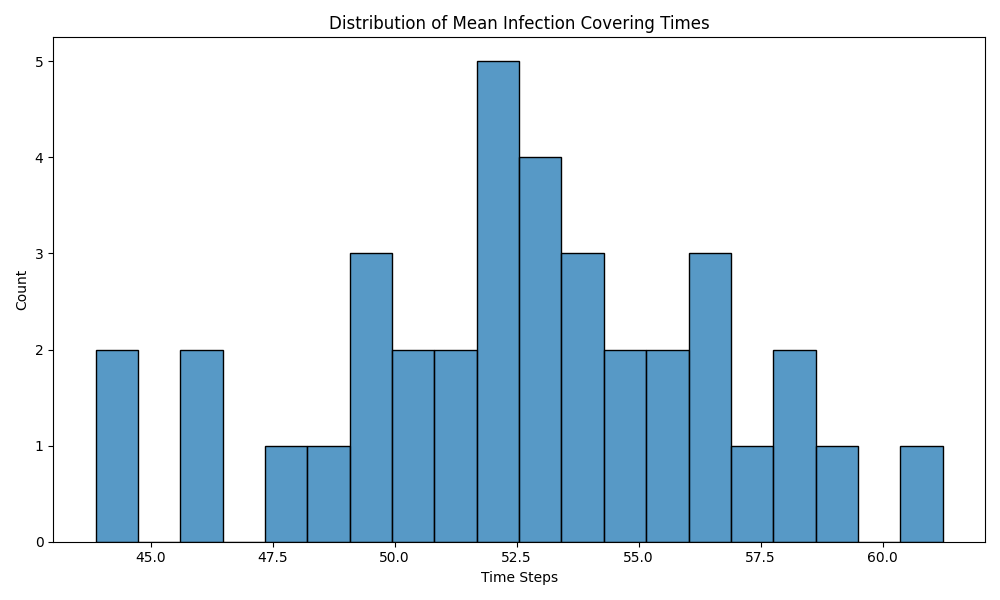
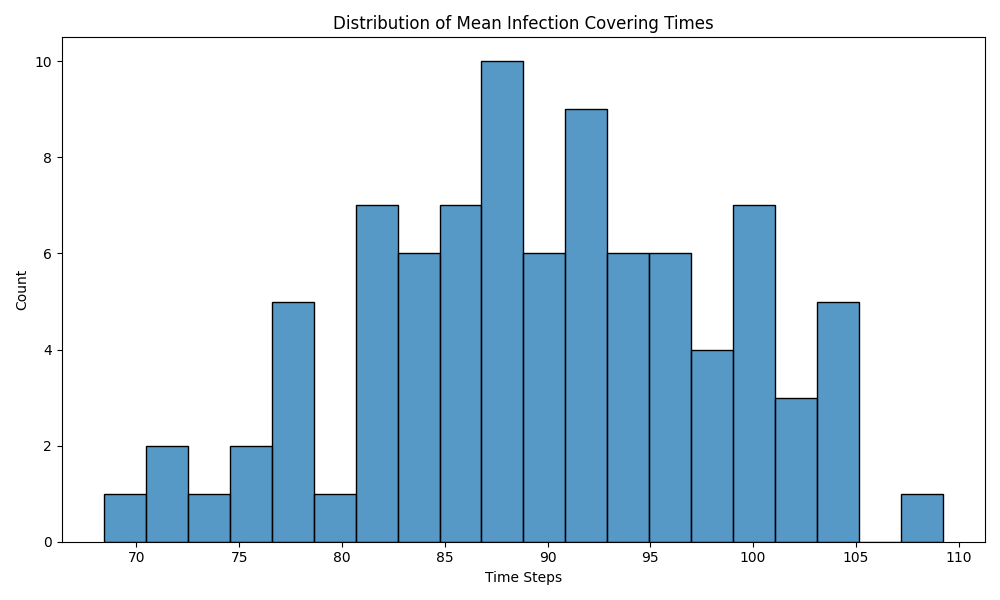
style changes

diff --git a/article_impl.py b/article_impl.py
@@ -107,7 +107,7 @@ class EpidemicNetworkModel:
     def plot_infection_times_heatmap(self):
         """Plot heatmap of mean infection times between nodes"""
         plt.figure(figsize=(10, 8))
-        sns.heatmap(self.infection_times, cmap='YlOrRd')
+        sns.heatmap(self.infection_times, cmap='inferno')
         plt.title('Mean Infection Times Between Nodes')
         plt.xlabel('Target Node')
         plt.ylabel('Source Node')
@@ -173,15 +173,15 @@ def create_test_network() -> nx.Graph:
 def create_complex_test_network() -> nx.Graph:
     """Create a more complex test network with 4 communities and multiple inter-community bridges"""
     # Create four connected communities
-    G1 = nx.grid_2d_graph(3, 3)  # 3x3 grid for first community
-    G2 = nx.grid_2d_graph(3, 3)  # 3x3 grid for second community
-    G3 = nx.grid_2d_graph(3, 3)  # 3x3 grid for third community
+    G1 = nx.grid_2d_graph(6, 6)  # 6x6 grid for first community
+    G2 = nx.grid_2d_graph(5, 5)  # 5x5 grid for second community
+    G3 = nx.grid_2d_graph(4, 4)  # 4x4 grid for third community
     G4 = nx.grid_2d_graph(3, 3)  # 3x3 grid for fourth community
 
     # Relabel nodes to avoid conflicts
-    G2 = nx.relabel_nodes(G2, {node: (node[0] + 3, node[1] + 3) for node in G2.nodes()})
-    G3 = nx.relabel_nodes(G3, {node: (node[0] + 6, node[1]) for node in G3.nodes()})
-    G4 = nx.relabel_nodes(G4, {node: (node[0] + 6, node[1] + 3) for node in G4.nodes()})
+    G2 = nx.relabel_nodes(G2, {node: (node[0] + 6, node[1] + 6) for node in G2.nodes()})
+    G3 = nx.relabel_nodes(G3, {node: (node[0] + 11, node[1]) for node in G3.nodes()})
+    G4 = nx.relabel_nodes(G4, {node: (node[0] + 11, node[1] + 4) for node in G4.nodes()})
 
     # Combine communities
     G = nx.union(G1, G2)
@@ -189,14 +189,14 @@ def create_complex_test_network() -> nx.Graph:
     G = nx.union(G, G4)
 
     # Add bridges between communities
-    G.add_edge((2, 2), (3, 3))  # Bridge between G1 and G2
-    G.add_edge((2, 1), (3, 2))  # Bridge between G1 and G2
-    G.add_edge((2, 0), (6, 0))  # Bridge between G1 and G3
-    G.add_edge((2, 2), (6, 2))  # Bridge between G1 and G3
-    G.add_edge((5, 3), (6, 3))  # Bridge between G2 and G4
-    G.add_edge((5, 5), (6, 5))  # Bridge between G2 and G4
-    G.add_edge((8, 0), (8, 3))  # Bridge between G3 and G4
-    G.add_edge((7, 2), (7, 5))  # Bridge between G3 and G4
+    G.add_edge((5, 5), (6, 6))  # Bridge between G1 and G2
+    G.add_edge((5, 4), (6, 3))  # Bridge between G1 and G2
+    G.add_edge((5, 0), (11, 0))  # Bridge between G1 and G3
+    G.add_edge((5, 5), (11, 3))  # Bridge between G1 and G3
+    G.add_edge((10, 6), (11, 6))  # Bridge between G2 and G4
+    G.add_edge((10, 8), (11, 8))  # Bridge between G2 and G4
+    G.add_edge((14, 0), (14, 4))  # Bridge between G3 and G4
+    G.add_edge((13, 3), (13, 6))  # Bridge between G3 and G4
 
     return G
 
